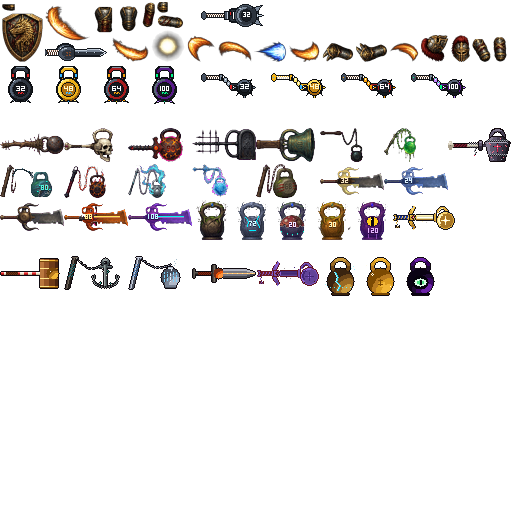
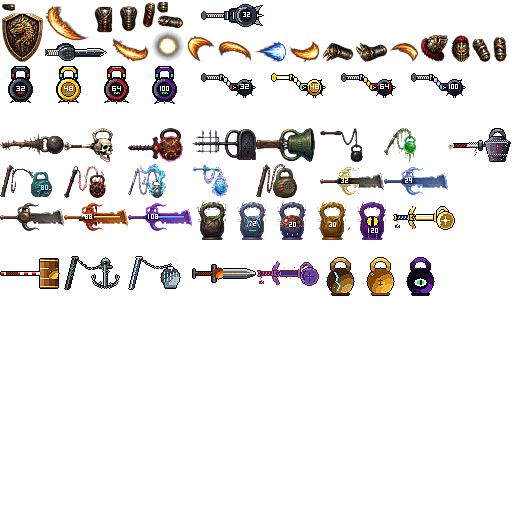
made knight sharper

diff --git a/src/tv/engine/GameEngine.ts b/src/tv/engine/GameEngine.ts
@@ -1578,6 +1578,8 @@ export class GameEngine {
       }
       spine.state.data.defaultMix = 0.08;
       spine.state.setAnimation(0, 'IDLE', true);
+      // Same dark silhouette as the monsters: the downscaled painted art goes soft against busy backgrounds.
+      if (!isPerformanceMode()) spine.filters = [this.monsterOutline];
 
       this.knightSpine = spine;
       this.knightContainer.addChild(spine);

diff --git a/scripts/build_store_art.py b/scripts/build_store_art.py
@@ -5,7 +5,7 @@
 
 Source: store/cover.png (1920x1080). Writes
   store/amazon/  icon-512.png, icon-114.png (store icons), firetv-icon-1280x720.png (Fire TV app icon, titled),
-                 background-1920x1080.png (Fire TV background, no text)
+                 background-1920x1080.png (Fire TV background, no text), promo-1024x500.png (promotional image)
   android/app/src/main/res/  drawable-xhdpi/tv_banner.png (320x180 Fire TV launcher banner),
                  mipmap-*/ic_launcher{,_round,_foreground}.png
 Rerun after changing the cover.
@@ -30,6 +30,8 @@ INK = (16, 10, 20)
 ICON_CROP = (585, 190, 800)
 # Adaptive-icon foreground: launchers mask it to its middle 72 of 108dp, so crop wider (the full cover height).
 FG_CROP = (445, 0, 1080)
+# Promo banner: a 1024:500 window (left, top, width) that puts the knight right of centre, leaving room for text.
+PROMO_CROP = (0, 175, 1700)
 # Launcher icons: legacy px size, adaptive foreground px size (108dp).
 DENSITIES = {'mdpi': (48, 108), 'hdpi': (72, 162), 'xhdpi': (96, 216), 'xxhdpi': (144, 324), 'xxxhdpi': (192, 432)}
 
@@ -58,6 +60,30 @@ def titled(img, w, h, size, top):
     return out
 
 
+def promo(img, crop=PROMO_CROP):
+    """1024x500 store banner: the knight right of centre, the title and tagline over darkened forest on the left."""
+    x, y, w = crop
+    out = img.crop((x, y, x + w, y + round(w * 500 / 1024))).resize((1024, 500), Image.LANCZOS).convert('RGBA')
+    shade = Image.new('RGBA', out.size)
+    sd = ImageDraw.Draw(shade)
+    for px in range(560):
+        sd.line([(px, 0), (px, 499)], fill=(*INK, int(200 * (1 - px / 560) ** 1.4)))
+    out = Image.alpha_composite(out, shade).convert('RGB')
+    d = ImageDraw.Draw(out)
+
+    def line(text, size, top, fill):
+        f = font(size)
+        stroke = max(2, size // 8)
+        d.text((40, top + stroke), text, font=f, fill=INK, stroke_width=stroke, stroke_fill=INK)
+        d.text((40, top), text, font=f, fill=fill, stroke_width=stroke, stroke_fill=INK)
+
+    line('KETTLEBELL', 38, 150, GOLD)
+    line('KNIGHT', 38, 204, GOLD)
+    line('YOUR REPS ARE', 18, 290, (240, 232, 220))
+    line('YOUR ATTACKS', 18, 320, (240, 232, 220))
+    return out
+
+
 def circle(img):
     mask = Image.new('L', (img.width * 4, img.height * 4), 0)
     ImageDraw.Draw(mask).ellipse((0, 0, mask.width - 1, mask.height - 1), fill=255)
@@ -80,6 +106,7 @@ def main():
     save(square(cover, 114), os.path.join(STORE, 'icon-114.png'))
     save(titled(cover, 1280, 720, 48, 40), os.path.join(STORE, 'firetv-icon-1280x720.png'))
     save(cover, os.path.join(STORE, 'background-1920x1080.png'))
+    save(promo(cover), os.path.join(STORE, 'promo-1024x500.png'))
 
     save(titled(cover, 320, 180, 16, 10), os.path.join(RES, 'drawable-xhdpi/tv_banner.png'))
     for density, (px, fg) in DENSITIES.items():

diff --git a/work/knight-sharpen/sharpen.py b/work/knight-sharpen/sharpen.py
@@ -1,0 +1,10 @@
+# Unsharp-mask a premultiplied-alpha atlas page: sharpen RGB, keep alpha, clamp RGB <= alpha.
+import sys
+import numpy as np
+from PIL import Image, ImageFilter
+src, dst, radius, percent = sys.argv[1], sys.argv[2], float(sys.argv[3]), int(sys.argv[4])
+im = Image.open(src).convert('RGBA')
+a = np.asarray(im.getchannel('A'), dtype=np.int16)
+rgb = im.convert('RGB').filter(ImageFilter.UnsharpMask(radius=radius, percent=percent, threshold=2))
+out = np.minimum(np.asarray(rgb, dtype=np.int16), a[..., None])
+Image.fromarray(np.dstack([out, a]).astype(np.uint8), 'RGBA').save(dst, optimize=True)
